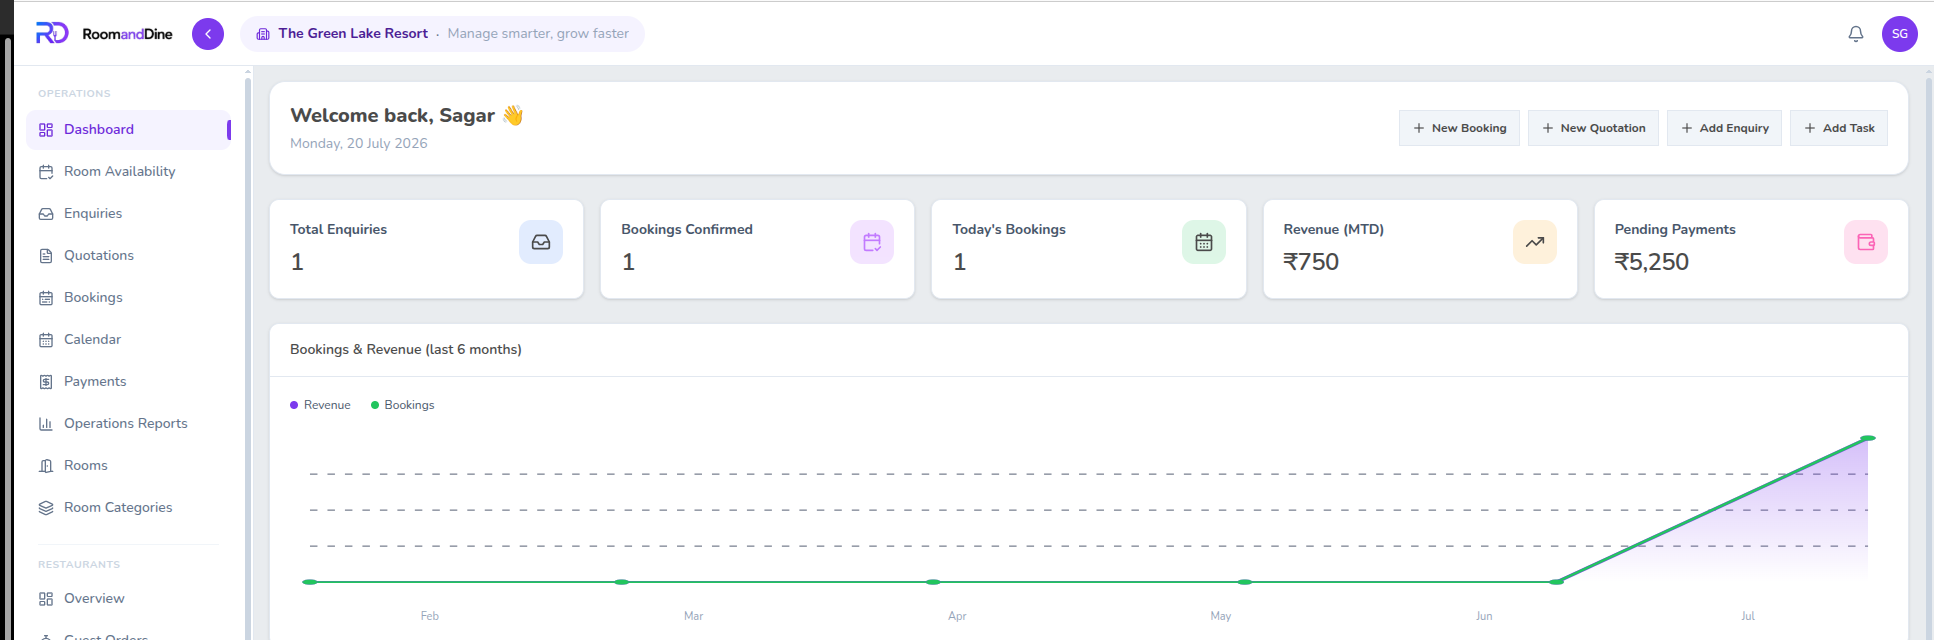
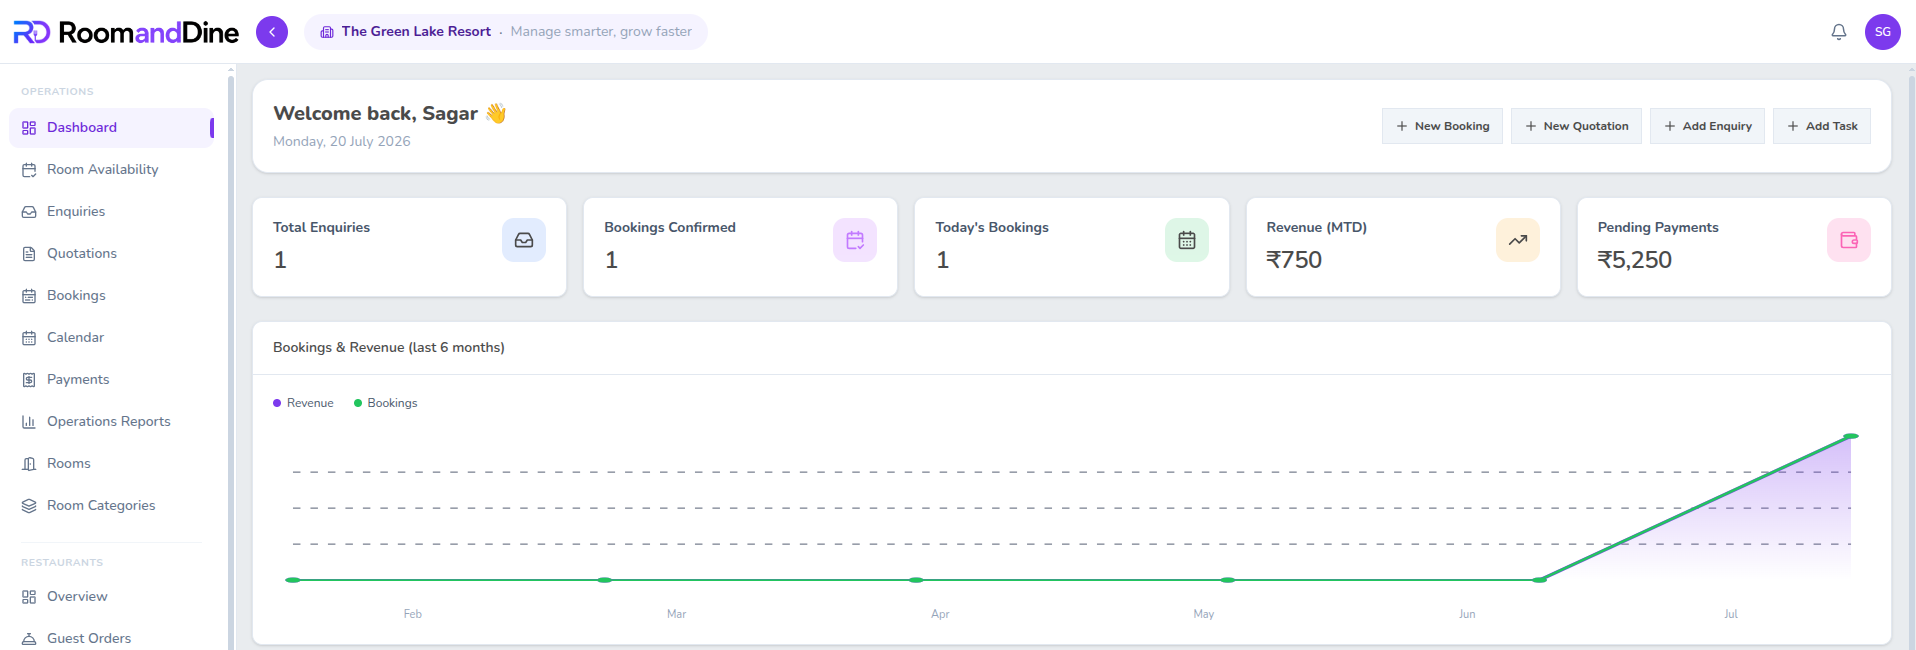
Replace hero's illustrative dashboard mockup with a real product screenshot
Updated screenshot also shows the new HD logo and the Bookings & Revenue
trend chart added earlier. Kept the same browser-chrome frame as the design.

Claude-Session: https://claude.ai/code/session_01XNNEBurfEyHE9C62kzY8RQ

diff --git a/src/components/Hero.tsx b/src/components/Hero.tsx
@@ -27,8 +27,8 @@ function WaveBackground() {
   )
 }
 
-// Illustrative dashboard mockup matching the design exactly — a stylized preview, not a literal
-// screenshot, so the numbers on it are placeholder UI content rather than a real-data claim.
+// Real product screenshot (not a fake mockup) in the same browser-chrome frame as the design's
+// illustrative version — actual dashboard UI is more credible than a stylized illustration.
 function DashboardMockup() {
   return (
     <div className="relative mx-auto max-w-[960px] animate-float-slow">
@@ -39,46 +39,7 @@ function DashboardMockup() {
           <span className="h-2.5 w-2.5 rounded-full bg-[#28c840]" />
           <span className="ml-3.5 text-xs text-slate-400">app.roomanddine.com/dashboard</span>
         </div>
-        <div className="flex h-[420px]">
-          <div className="hidden w-[200px] flex-col gap-2 bg-[#1e1b2e] p-[22px] sm:flex">
-            <div className="mb-4 flex items-center gap-2.5">
-              <div className="h-[26px] w-[26px] rounded-lg bg-gradient-to-br from-cta-to to-cta-from" />
-              <span className="text-sm font-bold text-white">RoomAndDine</span>
-            </div>
-            <div className="rounded-[9px] bg-gradient-to-r from-cta-to to-cta-from px-3 py-2.5 text-[13px] font-semibold text-white">
-              📊 Dashboard
-            </div>
-            <div className="rounded-[9px] px-3 py-2.5 text-[13px] text-[#c4c0d4]">🛏 Rooms</div>
-            <div className="rounded-[9px] px-3 py-2.5 text-[13px] text-[#c4c0d4]">🎉 Banquets</div>
-            <div className="rounded-[9px] px-3 py-2.5 text-[13px] text-[#c4c0d4]">🍽 Restaurant</div>
-            <div className="rounded-[9px] px-3 py-2.5 text-[13px] text-[#c4c0d4]">📅 Calendar</div>
-          </div>
-          <div className="flex-1 bg-[#f8f7fb] p-6 text-left">
-            <div className="mb-[18px] flex gap-3.5">
-              <div className="flex-1 rounded-[13px] bg-white p-4 shadow-[0_4px_14px_-8px_rgba(0,0,0,0.15)]">
-                <div className="text-xs text-slate-400">Occupancy</div>
-                <div className="text-2xl font-extrabold text-cta-from">86%</div>
-              </div>
-              <div className="flex-1 rounded-[13px] bg-white p-4 shadow-[0_4px_14px_-8px_rgba(0,0,0,0.15)]">
-                <div className="text-xs text-slate-400">Today's revenue</div>
-                <div className="text-2xl font-extrabold text-highlight-500">₹1.24L</div>
-              </div>
-              <div className="hidden flex-1 rounded-[13px] bg-white p-4 shadow-[0_4px_14px_-8px_rgba(0,0,0,0.15)] sm:block">
-                <div className="text-xs text-slate-400">Live tables</div>
-                <div className="text-2xl font-extrabold text-slate-900">18/24</div>
-              </div>
-            </div>
-            <div className="flex h-[220px] items-end gap-3 rounded-[13px] bg-white p-[18px] shadow-[0_4px_14px_-8px_rgba(0,0,0,0.15)]">
-              {[45, 70, 55, 88, 62, 78, 95].map((h, i) => (
-                <div
-                  key={i}
-                  className={`flex-1 rounded-t-[7px] ${i === 3 || i === 6 ? 'bg-gradient-to-t from-highlight-500 to-[#60a5fa]' : 'bg-gradient-to-t from-cta-from to-[#a78bfa]'}`}
-                  style={{ height: `${h}%` }}
-                />
-              ))}
-            </div>
-          </div>
-        </div>
+        <img src="/screenshots/dashboard.png" alt="RoomAndDine dashboard — bookings, revenue, and enquiries at a glance" className="block w-full" />
       </div>
     </div>
   )